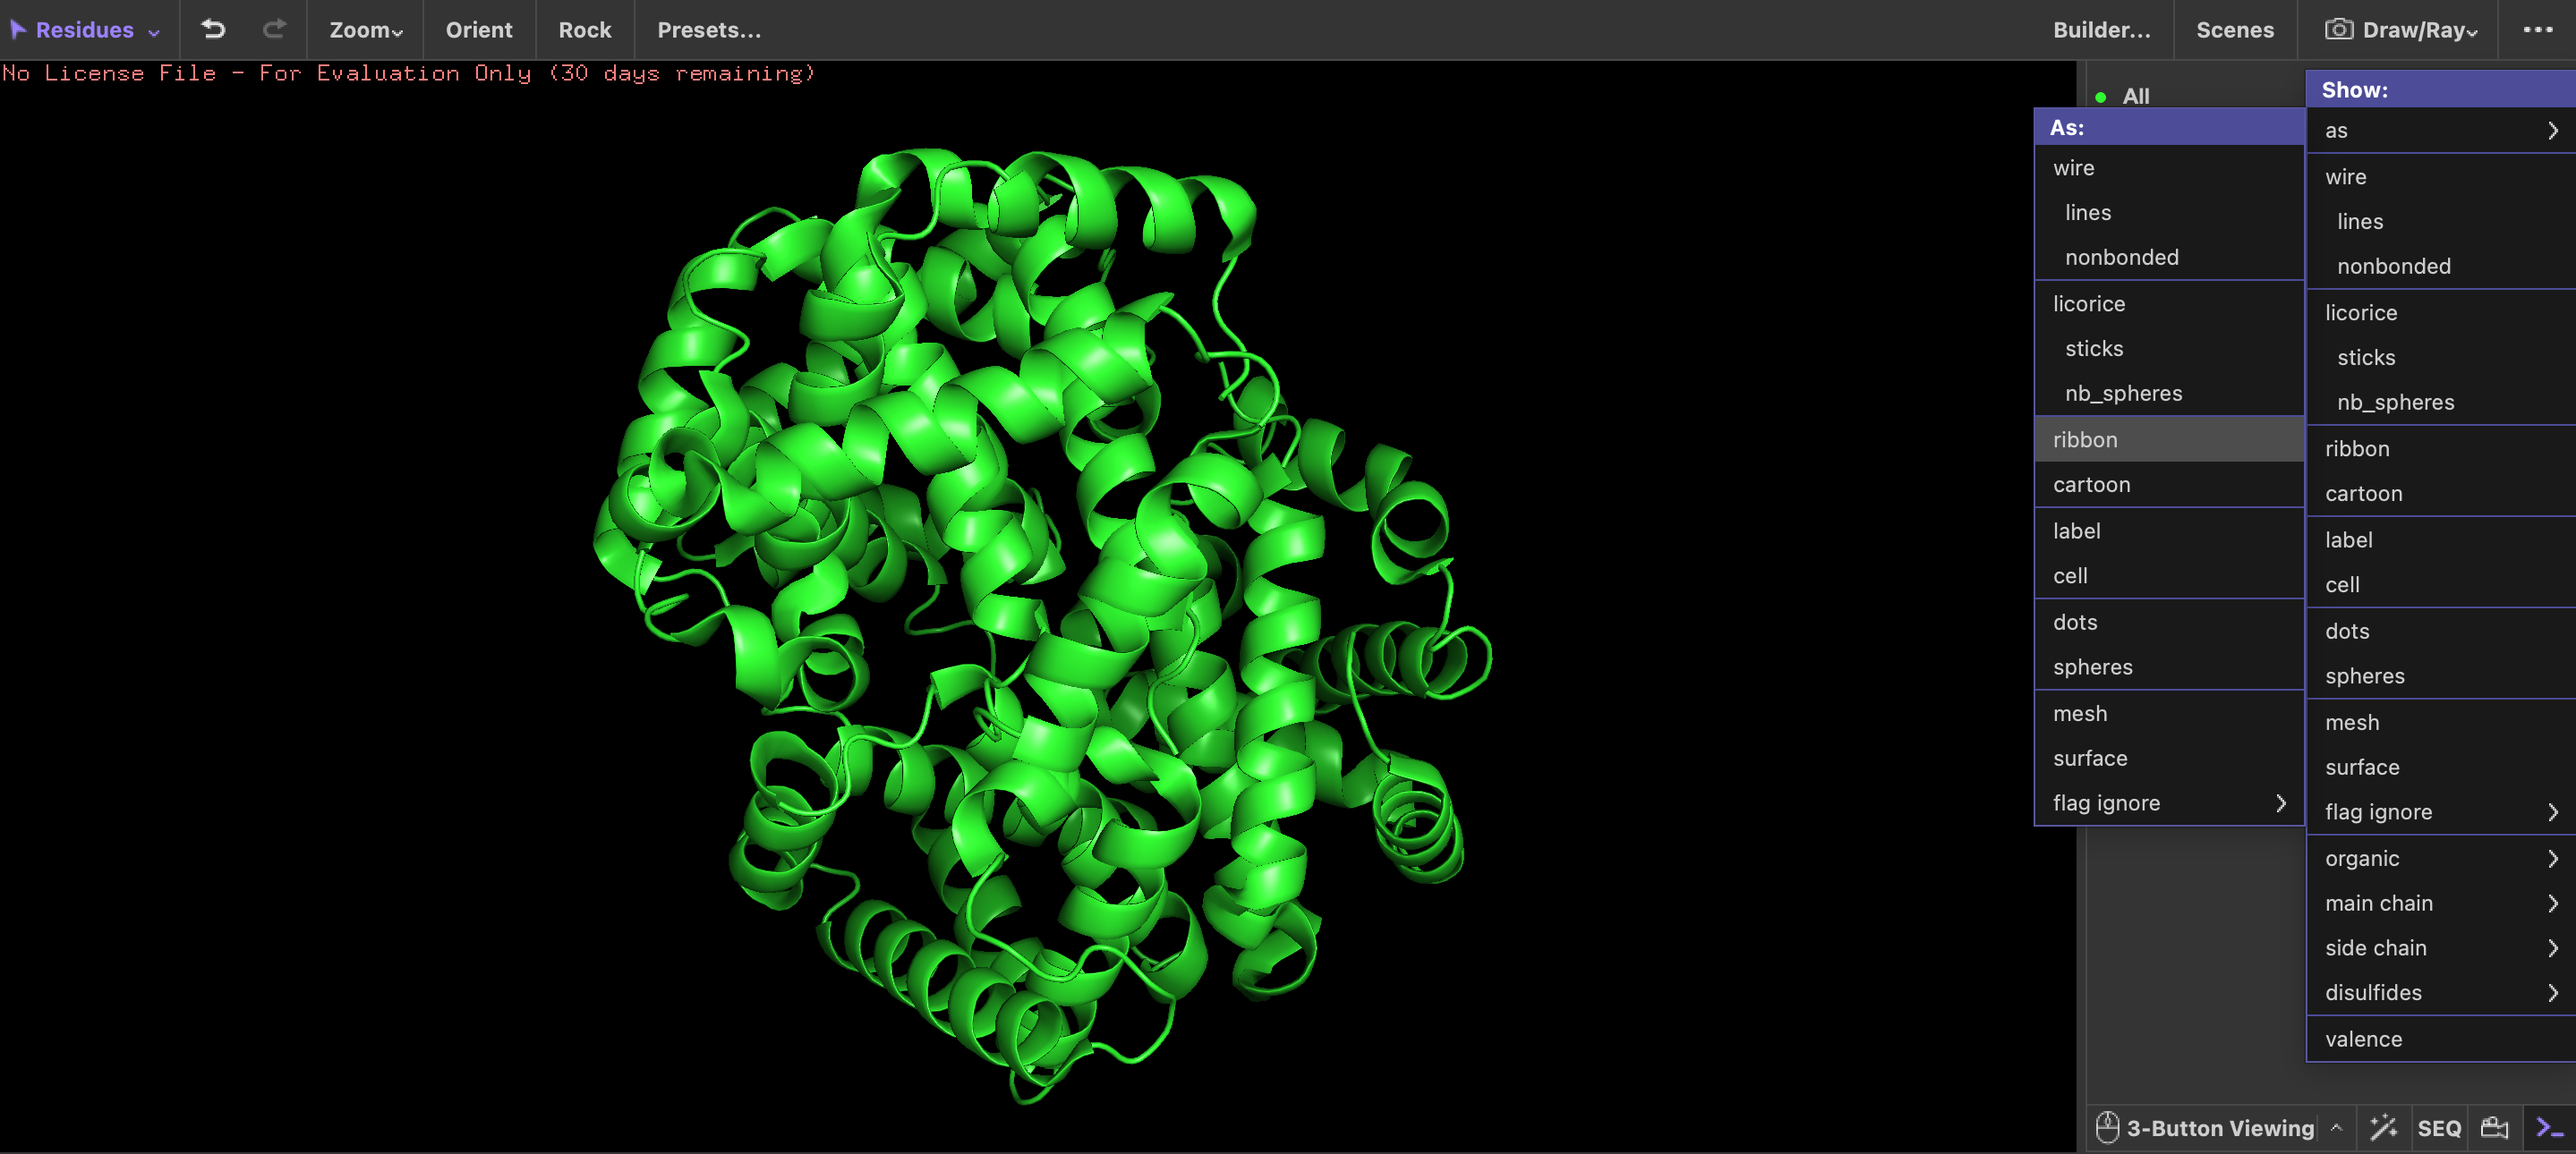
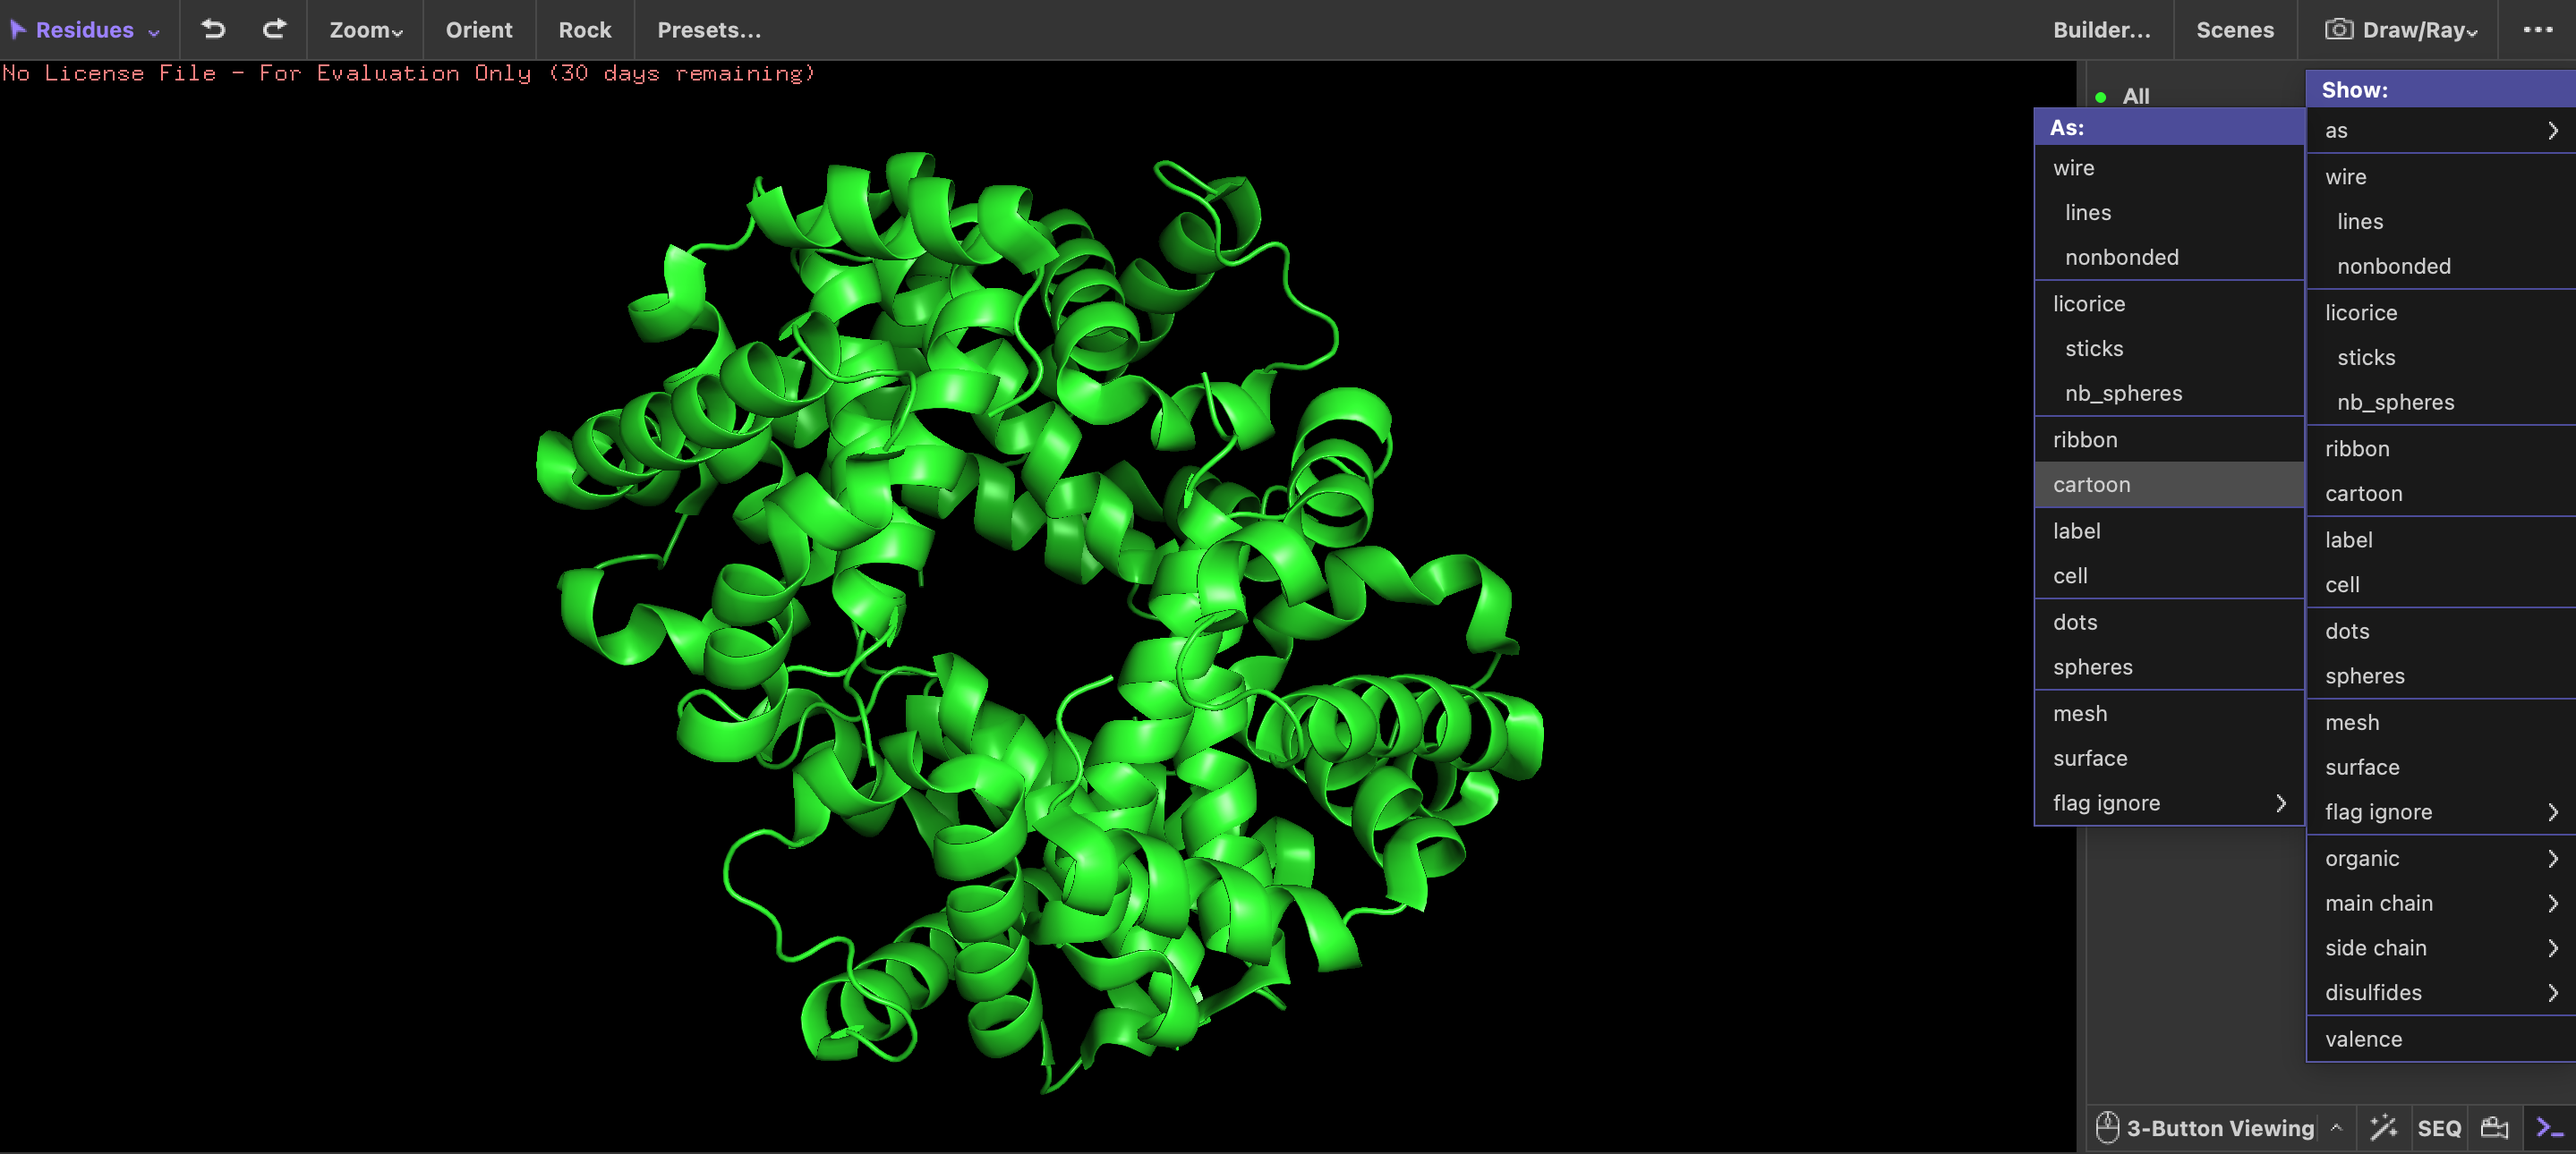
task 4, фикс

Changed region(s): [[0.1855, 0.124, 0.6185, 0.9612], [0.7731, 0.3411, 0.8968, 0.4651]]

diff --git a/task4/README.md b/task4/README.md
@@ -20,7 +20,7 @@
     *Скриншот процесса*: ![wire screen](wire%20screen.png)
 
 ### b. Backbone (Модель остова)
-*   **Способ получения**: Использована командная строка PyMOL: `show cartoon, (name c+o+n+ca)`.
+*   **Способ получения**: Использована командная строка PyMOL: `S > ribbon`, лишние элементы скрыты.
 *   **Итоговое изображение**:
     ![Backbone визуализация](backbone.png)
     *Скриншот процесса*: ![backbone screen](backbone%20screen.png)
@@ -32,7 +32,7 @@
     *Скриншот процесса*: ![spacefill screen](spacefill%20screen.png)
 
 ### d. Ribbons (Ленточная модель)
-*   **Способ получения**: Отображена вторичная структура (`S > ribbon`), лишние элементы скрыты.
+*   **Способ получения**: Отображена вторичная структура (`S > cartoon`), (странно, конечно, но это больше всего похоже на ленточки) лишние элементы скрыты.
 *   **Итоговое изображение**:
     ![Ribbons визуализация](ribbon.png)
     *Скриншот процесса*: ![ribbon screen](ribbon%20screen.png)
